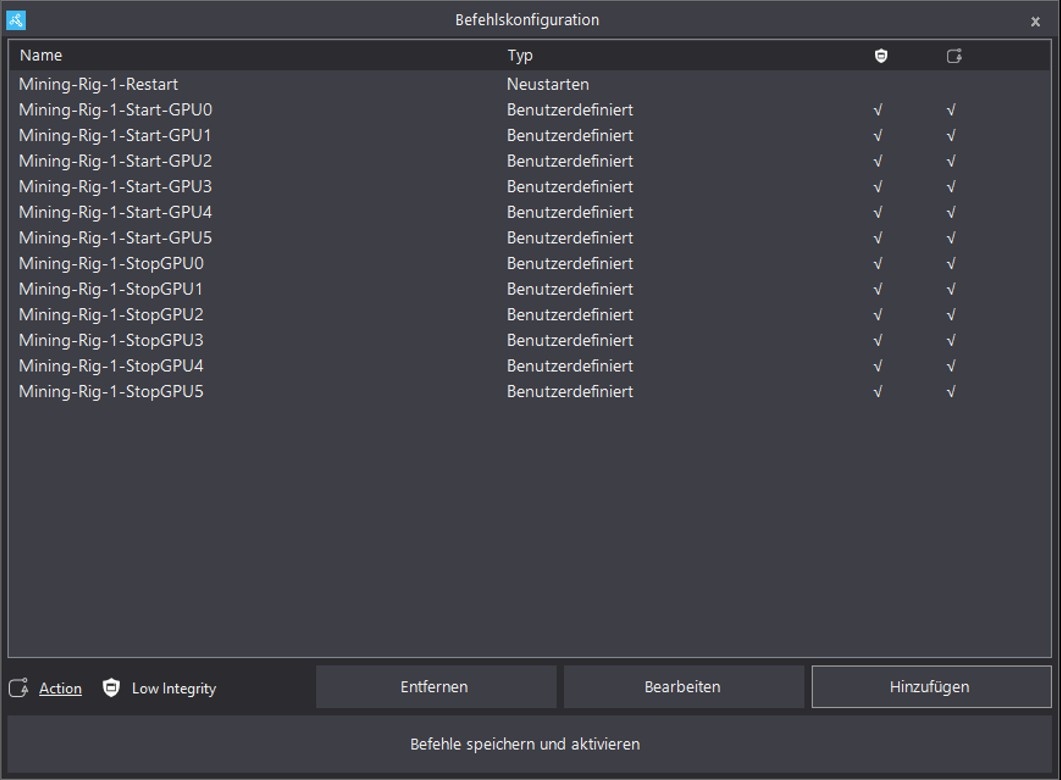
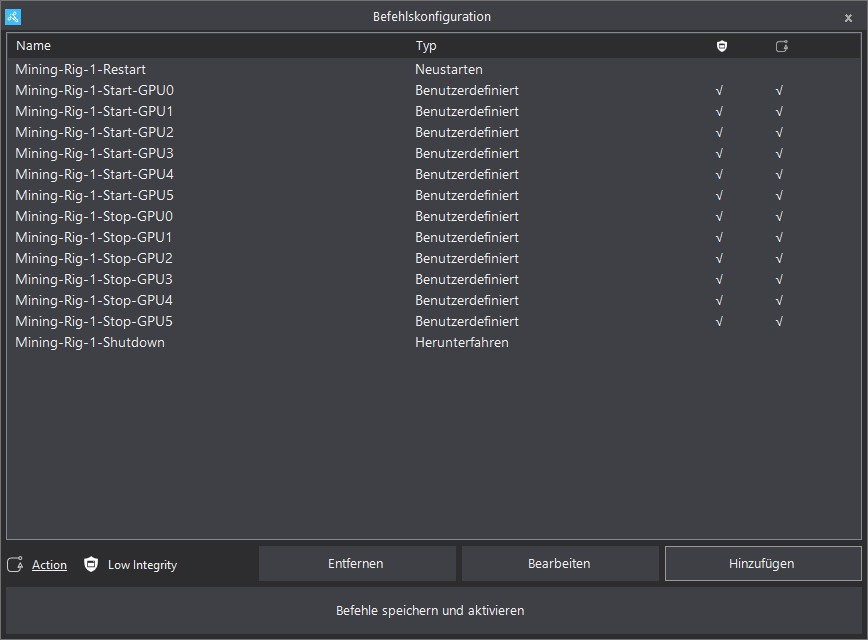
adjusting readability

diff --git a/README.md b/README.md
@@ -8,7 +8,7 @@ This project describes a fully automated mining rig that operates GPUs based on 
 
 > The system ensures that mining only occurs when conditions allow, such as sufficient battery charge, available photovoltaic (PV) power, and low competing load priority.
 
-> The Example is based on 6 available GPUs. However, the logic is repetitive.
+> The example is based on 6 available GPUs. However, the logic is repetitive.
 
 ---
 
@@ -30,7 +30,11 @@ C:\Mining\GMiner\
 ├── set_power_limit.bat
 ```
 
-### Setting GPU Power Limits (`set_power_limit.bat`)
+### Setting GPU Power Limits at Boot
+
+To ensure GPUs always run with the correct power limits, the file `set_power_limit.bat` is executed during system startup using Windows Task Scheduler. This batch script applies power limits via `nvidia-smi` and GPU UUIDs.
+
+#### Example: `set_power_limit.bat`
 
 ```bat
 @echo off
@@ -41,19 +45,25 @@ nvidia-smi -i GPU-<UUID> -pl 210
 nvidia-smi -i GPU-<UUID> -pl 210
 ```
 
-To add this task to boot of Windows use this Command-line one-liner (Run as Admin):
+#### Registering the Task at Boot
+
+Run this one-liner in an elevated Command Prompt:
 
 ```bat
 schtasks /create /tn "SetNvidiaPL" /tr "C:\Mining\set_power_limit.bat" /sc onstart /ru "SYSTEM" /rl HIGHEST
 ```
 
-To check if the Power Limits are set you can use this commad prompt:
+#### Verify Settings
 
 ```bat
 nvidia-smi --query-gpu=name,power.limit --format=csv
 ```
 
-### Batch File Sample (`mine_ravencoin_sample.bat`)
+### Batch Files for Mining
+
+Each GPU is controlled via its own `.bat` file. They define the miner executable, pool, wallet, and device index.
+
+#### Sample: `mine_ravencoin_sample.bat`
 
 ```bat
 title GMiner_GPU<ID>
@@ -62,12 +72,12 @@ miner.exe --algo kawpow --server [YOUR_POOL_ADDRESS] --user [YOUR_WALLET].[YOUR_
 pause
 ```
 
-- Each file uses a distinct `--devices` number and `title` for window tracking
-- All batch files remain in the same directory as the miner executable
+- Each file uses a distinct `--devices` number and `title` for tracking
+- All batch files remain in the miner directory
 
-The GMiner only accepts the `GPU<ID>` in `--devices`. If you use multiple GPUs of different types or want to control a distinctive physical card you can use the `GPU-<UUID>` to retrieve the `GPU<ID>`. Add this before the miner start in the mining`.bat` file and change the `GPU<ID>` at the end:
+For advanced setups, the GPU `UUID` can be mapped to GMiner indices. This ensures deterministic GPU selection when multiple models are present.
 
-### Batch File Exampke (`mine_ravencoin_0.bat`)
+#### Example: `mine_ravencoin_0.bat`
 
 ```bat
 @echo off
@@ -118,7 +128,6 @@ miner.exe --algo kawpow --server rvn.2miners.com:6060 --user [YOUR_WALLET_ADDRES
 
 echo [INFO] Mining ended
 pause
-
 ```
 
 ---
@@ -129,7 +138,7 @@ pause
 
 - A **long-lived access token** is created in Home Assistant and entered into HASS.Agent
 - MQTT uses existing `mosquitto` broker credentials
-- **All commands and sensors run with "Run as low integrity" enabled**
+- Ensure all commands and sensors run with **"Run as low integrity"** enabled
 
 ### Commands Setup (from `commands.json`)
 
@@ -149,7 +158,7 @@ Each GPU has its own start/stop command in HASS.Agent.
 
 ```json
 {
-  "Name": "Mining-Rig-1-StopGPU0",
+  "Name": "Mining-Rig-1-Stop-GPU0",
   "Command": "taskkill /f /fi \"WindowTitle eq  GMiner_GPU0\" /t",
   "RunAsLowIntegrity": true
 }
